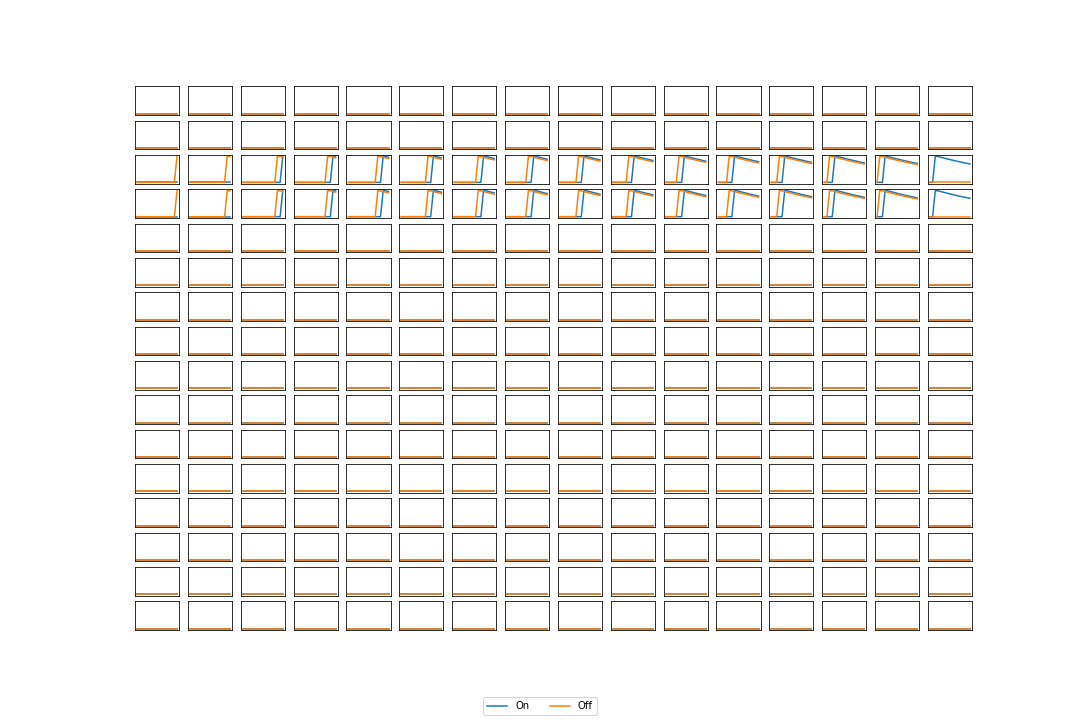
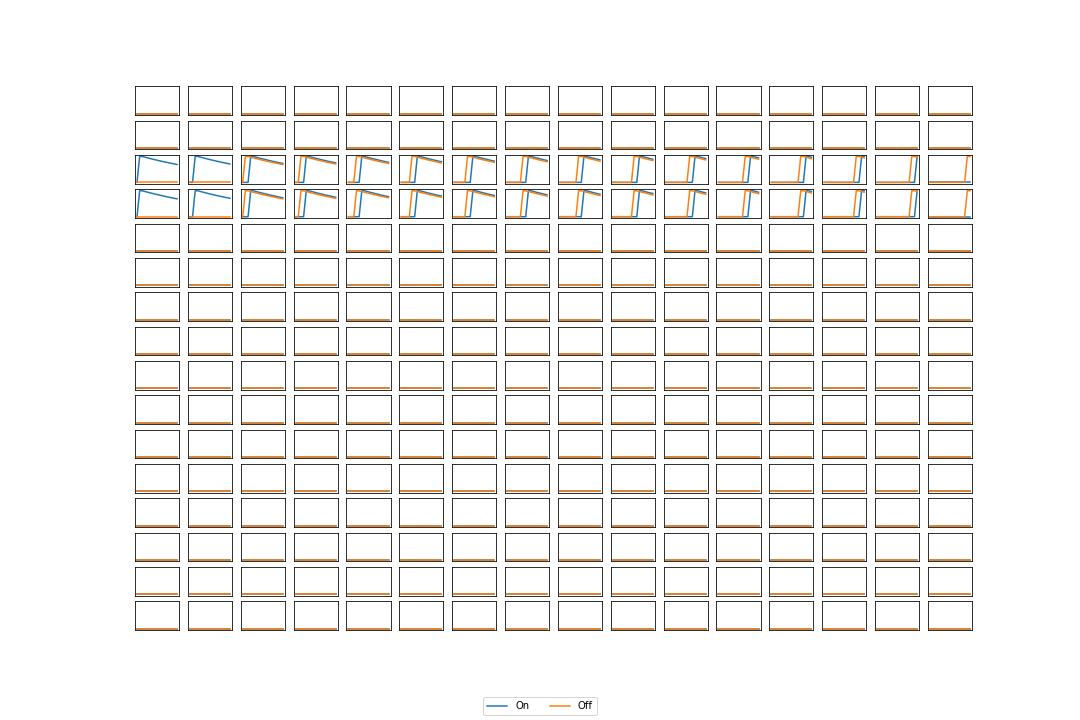
Completed EMD with working implementation

Changed region(s): [[0.1222, 0.2139, 0.5194, 0.3056], [0.5806, 0.2139, 0.9167, 0.3056]]

diff --git a/EMD.py b/EMD.py
@@ -1,6 +1,9 @@
 """
 Adapted from Bagheri, Z.M., Wiederman, S.D., Cazzolato, B.S., Grainger, S. and O’Carroll, D.C., 2017. 
 Performance of an insect-inspired target tracker in natural conditions. Bioinspiration & biomimetics, 12(2), p.025006.
+
+Eichner, H., Joesch, M., Schnell, B., Reiff, D.F. and Borst, A., 2011. 
+Internal structure of the fly elementary motion detector. Neuron, 70(6), pp.1155-1164.
 """
 
 import matplotlib.pyplot as plt
@@ -35,7 +38,7 @@ def save_fig(title):
     plt.close()
 
 class EMD:
-    def __init__(self):
+    def __init__(self, **kwargs):
         self.HEIGHT = 16
         self.WIDTH = 16
         self.TIMESTEPS = 16
@@ -45,6 +48,8 @@ class EMD:
         self.STIM_WIDTH = 2
         self.STIM_Y = 2
         
+        self.direction = kwargs['DIRECTION']
+        
         # Time constants
         self.HPF_TAU = 40
         self.LPF_TAU = 35
@@ -53,22 +58,20 @@ class EMD:
         self.HPF_K = np.exp(-1 / self.HPF_TAU)
         self.LPF = np.exp(-1 / self.LPF_TAU)
         
-    def image_generation(self, **kwargs):
+    def image_generation(self):
         # Initialise images tensor
-        self.direction = kwargs['DIRECTION']
-        
         images = np.ones((self.TIMESTEPS, self.HEIGHT, self.WIDTH))
         for i in range(self.TIMESTEPS):
             start_pos_x = i*self.VELOCITY
             images[i,self.STIM_Y:self.STIM_Y+self.STIM_HEIGHT,start_pos_x:start_pos_x+self.STIM_WIDTH] = 0.0
-        if self.direction == 'right':
+        if self.direction == 'RIGHT':
             pass
         else:
             images = images[::-1,:,:]
         return images
         
     def model(self):
-        images = self.image_generation(DIRECTION='left')
+        images = self.image_generation()
         # Initialisations
 
         hpf = np.zeros((self.TIMESTEPS, self.HEIGHT, self.WIDTH))
@@ -79,10 +82,7 @@ class EMD:
         a_on = np.zeros((self.TIMESTEPS, self.HEIGHT, self.WIDTH))
         a_off = np.zeros((self.TIMESTEPS, self.HEIGHT, self.WIDTH))
         
-        on_out = np.zeros((self.TIMESTEPS, self.HEIGHT, self.WIDTH))
-        off_out = np.zeros((self.TIMESTEPS, self.HEIGHT, self.WIDTH))
-        
-        output = np.zeros((self.TIMESTEPS, self.HEIGHT, self.WIDTH))
+        output = np.zeros((self.TIMESTEPS, self.HEIGHT, self.WIDTH-1))
 
         for t in range(1, self.TIMESTEPS):
             # High-pass filters
@@ -97,23 +97,18 @@ class EMD:
             a_off[t] = ((1.0 - self.LPF) * off_f[t]) + (self.LPF * a_off[t - 1]) 
             
             # Correlate
-            on_out[t] = on_f[t] * a_on[t]
-            off_out[t] = off_f[t] * a_off[t]
-            
-            # Compare
-            on_comp = on_out[:-1,:,:] - on_out[1:,:,:]
-            off_comp = off_out[:-1,:,:] - off_out[1:,:,:]
+            on_out = (a_on[t,:,:-1] * on_f[t,:,1:]) - (on_f[t,:,:-1] * a_on[t,:,1:])
+            off_out = (a_off[t,:,:-1] * off_f[t,:,1:]) - (off_f[t,:,:-1] * a_off[t,:,1:])
             
             # Summation
-            output[t] = np.maximum(on_comp[t - 1] + off_comp[t - 1], 0.0)
+            output[t] = on_out + off_out
         
-        self.outs = {'hpf':hpf, 'on_f':on_f, 'off_f':off_f, 'a_on':a_on, 'a_off':a_off, 
-                'on_comp':on_comp, 'off_comp':off_comp, 'output':output}    
+        self.outs = {'hpf':hpf, 'on_f':on_f, 'off_f':off_f, 'a_on':a_on, 'a_off':a_off, 'output':output}    
         
         return self.outs
 
     def visualisations(self):
-        images = self.image_generation(DIRECTION='left')
+        images = self.image_generation()
         
         # Visualize stimuli
         fig, axes = plt.subplots(1,self.TIMESTEPS, sharey=True, figsize=(15,5))
@@ -125,17 +120,8 @@ class EMD:
         
         visualise([self.outs['on_f'], self.outs['off_f']], ['On', 'Off'], title='Rectified channels')
         visualise([self.outs['a_on'], self.outs['a_off']], ['On', 'Off'], title='Low-pass filtered channels')
-        visualise([self.outs['on_out'], self.outs['off_out']], ['On', 'Off'], title='Correlation')
-        visualise([self.outs['on_comp'], self.outs['off_comp']], ['On', 'Off'], title='Compare')
-        visualise([self.outs['output']], title='Output')
+        visualise([self.outs['output']], title=f'Output_{self.direction}')
         
-        # Visualise output
-        fig, axes = plt.subplots(1, self.TIMESTEPS, sharey=True, figsize=(15, 5))
-        for t, a in enumerate(axes):
-            a.plot(np.sum(self.outs['output'][t,:,:])), 
-                      vmin=0.0, 
-                      vmax=1.0, 
-                      cmap="gray")
-            hide_axes(a)
-        fig.tight_layout(pad=0)
-        save_fig('EMD output.png')
+EMD_model = EMD(DIRECTION='RIGHT')
+outs = EMD_model.model()
+EMD_model.visualisations()
